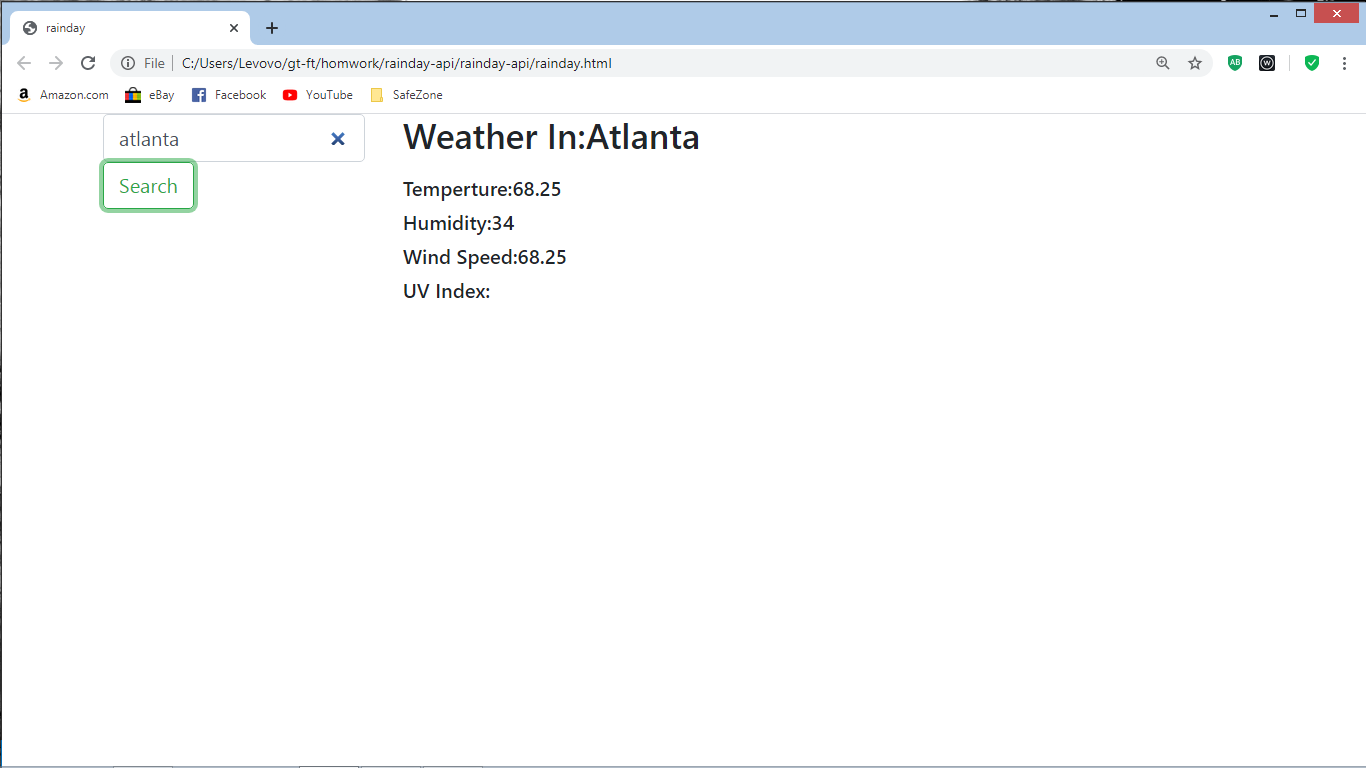
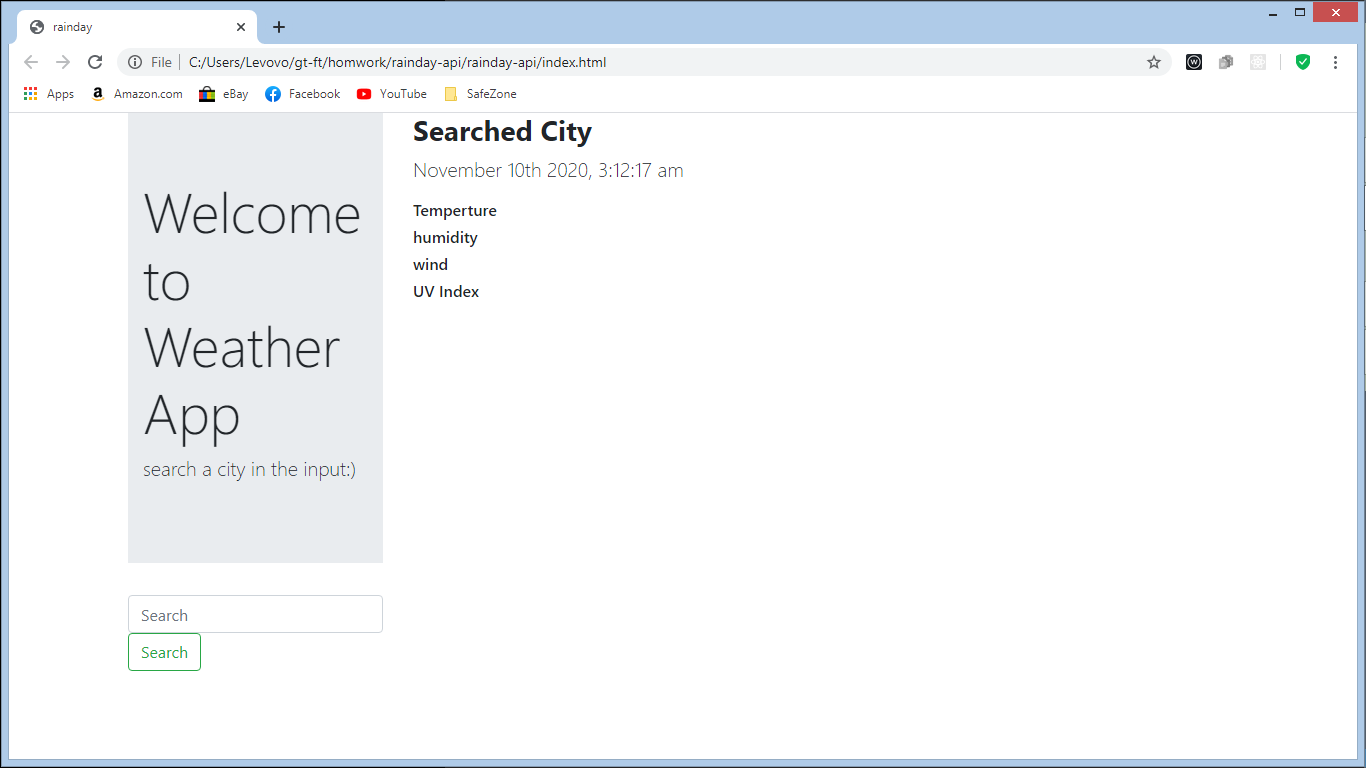
added momment js

diff --git a/index.html b/index.html
@@ -12,12 +12,18 @@
     <title>rainday</title>
     <meta name="description" content="" />
     <meta name="viewport" content="width=device-width, initial-scale=1" />
-    <link rel="stylesheet" href="" />
+    <link rel="stylesheet" href="./styles.css">
   </head>
   <body>
-    <div class="container">
+    <div id="color" class="container">
       <div class="row">
         <div class="col-sm-3">
+          <div class="jumbotron jumbotron-fluid">
+            <div class="container">
+              <h1 class="display-4">Welcome to Weather App</h1>
+              <p class="lead">search a city in the input:)</p>
+            </div>
+          </div>
           <input
             id="searchCity"
             class="form-control mr-sm-2"
@@ -36,7 +42,8 @@
         <div class="col-sm-9">
           <div class="row">
             <div class="col-sm-12">
-              <h3 class="myCity"><strong>Searched A City</strong></h3>
+              <h3 class="myCity"><strong>Searched City</strong></h3>
+              <p id="currentDay" class="lead"></p>
               <p id="date"></p>
               <h6 class="temp">Temperture</h6>
               <h6 class="humid">humidity</h6>
@@ -84,7 +91,7 @@
       integrity="sha384-B4gt1jrGC7Jh4AgTPSdUtOBvfO8shuf57BaghqFfPlYxofvL8/KUEfYiJOMMV+rV"
       crossorigin="anonymous"
     ></script>
-
+    <script src="https://cdnjs.cloudflare.com/ajax/libs/moment.js/2.24.0/moment.min.js"></script>
     <script src="./script.js"></script>
   </body>
 </html>

diff --git a/script.js b/script.js
@@ -1,4 +1,5 @@
 $(document).ready(function () {
+  $("#currentDay").text(moment().format("MMMM Do YYYY, h:mm:ss a"));
   var APIkey = "0b7e120ecb6a0831c512bd4a23e5b882";
 
   function searchWeather(town) {

diff --git a/style.css b/style.css
@@ -1,0 +1,3 @@
+#color {
+  background-color: aqua;
+}
